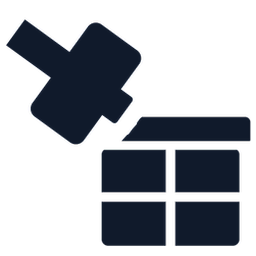
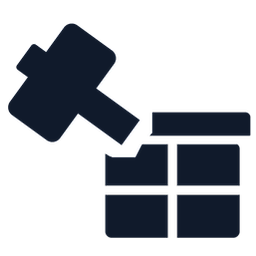
The mallet turns the other way so its face lands flat on the box instead of meeting it corner first

Changed region(s): [[0.0312, 0.0625, 1.0, 0.9688]]

diff --git a/src/client/build-stamp.ts b/src/client/build-stamp.ts
@@ -6,4 +6,4 @@
  * construction: the code may be wrong, or the client may simply be showing the previous
  * version. Two hours of that argument (1 Sep) is what this four-character string ends.
  */
-export const BUILD = '3202'
+export const BUILD = '641c'

diff --git a/tools/ui/build-smash-icon.py b/tools/ui/build-smash-icon.py
@@ -70,14 +70,19 @@ FRAPPE = (0.30, 0.26)
 # The void carved around the mallet, in canvas shares. Two masses of one ink that touch fuse
 # into a blob; this is the same separation the crate draws between its own planks.
 VIDE = 0.045
-# A quarter turn clockwise, and it is what makes the tool STRIKE rather than stand there.
+# A quarter turn ANTICLOCKWISE, and it is what makes the tool STRIKE rather than stand there.
 #
 # The mallet is drawn head up-right, grip down-left, which is the right pose for BUILD where it
 # is alone. Laid beside a box in that pose it points AWAY from it: a tool floating in a corner
-# (owner, 7 Sep). Turned a quarter clockwise the head comes down-right, onto the box's top left
-# shoulder, and the handle runs up-left out of the way. That is how the whole genre draws a
-# blow, and it costs one rotation rather than a second mallet drawing.
-MALLET_TURN = -90
+# (owner, 7 Sep). Turned, the head comes down onto the box and the handle runs up-left out of
+# the way, which is how the whole genre draws a blow, and it costs one rotation rather than a
+# second mallet drawing.
+#
+# The direction of the turn was decided by rendering all four and looking (owner, 7 Sep). Turned
+# clockwise the head meets the box corner-first and reads thin; turned ANTICLOCKWISE its flat
+# FACE lands on the box, which is the shape of a blow, and the void carved under it makes the
+# box look bitten into rather than merely overlapped.
+MALLET_TURN = 90
 # A SHORT mallet, and the reason is stroke weight, not composition.
 #
 # Two objects share this canvas, so the tool is drawn shorter than when it stands alone.
